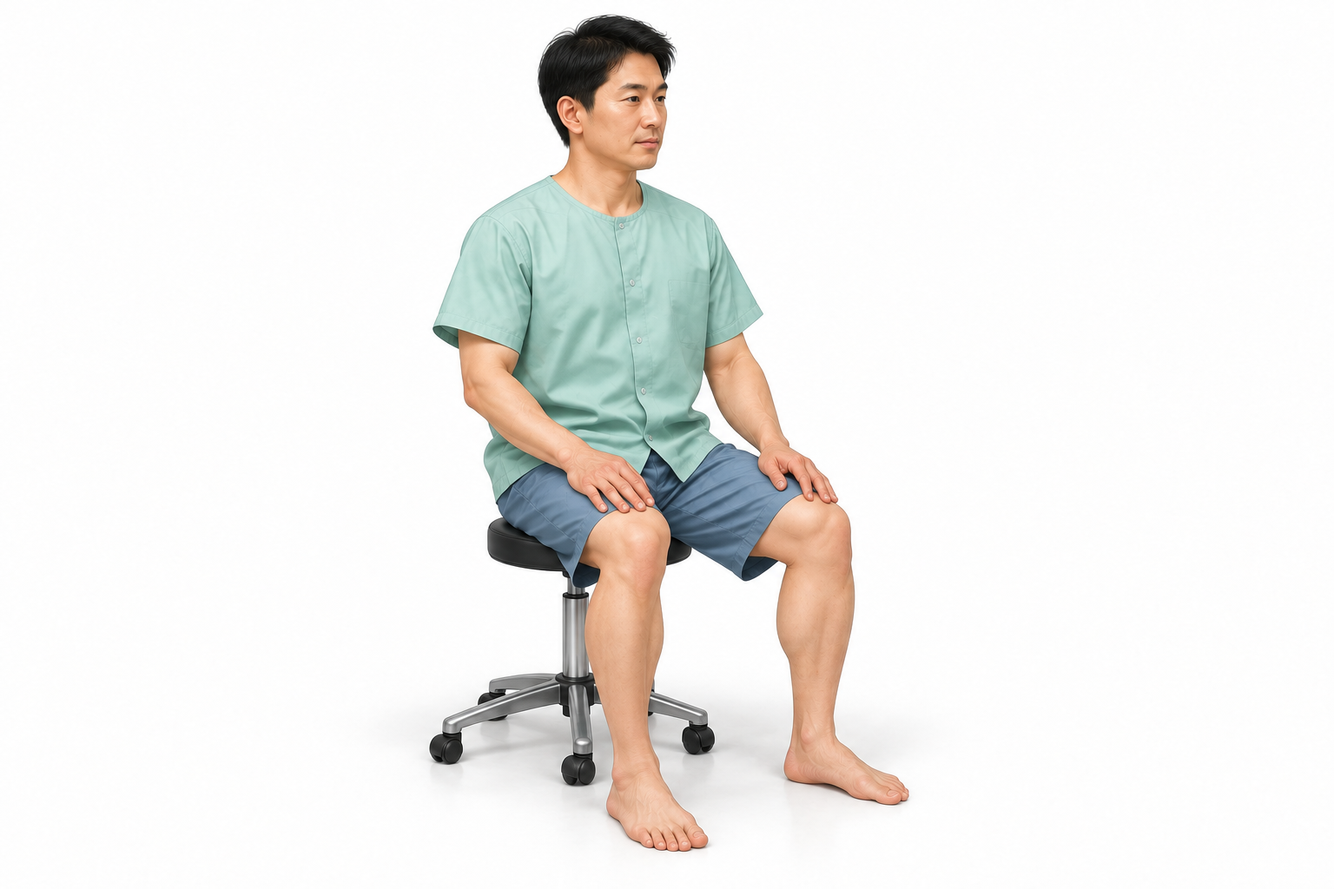
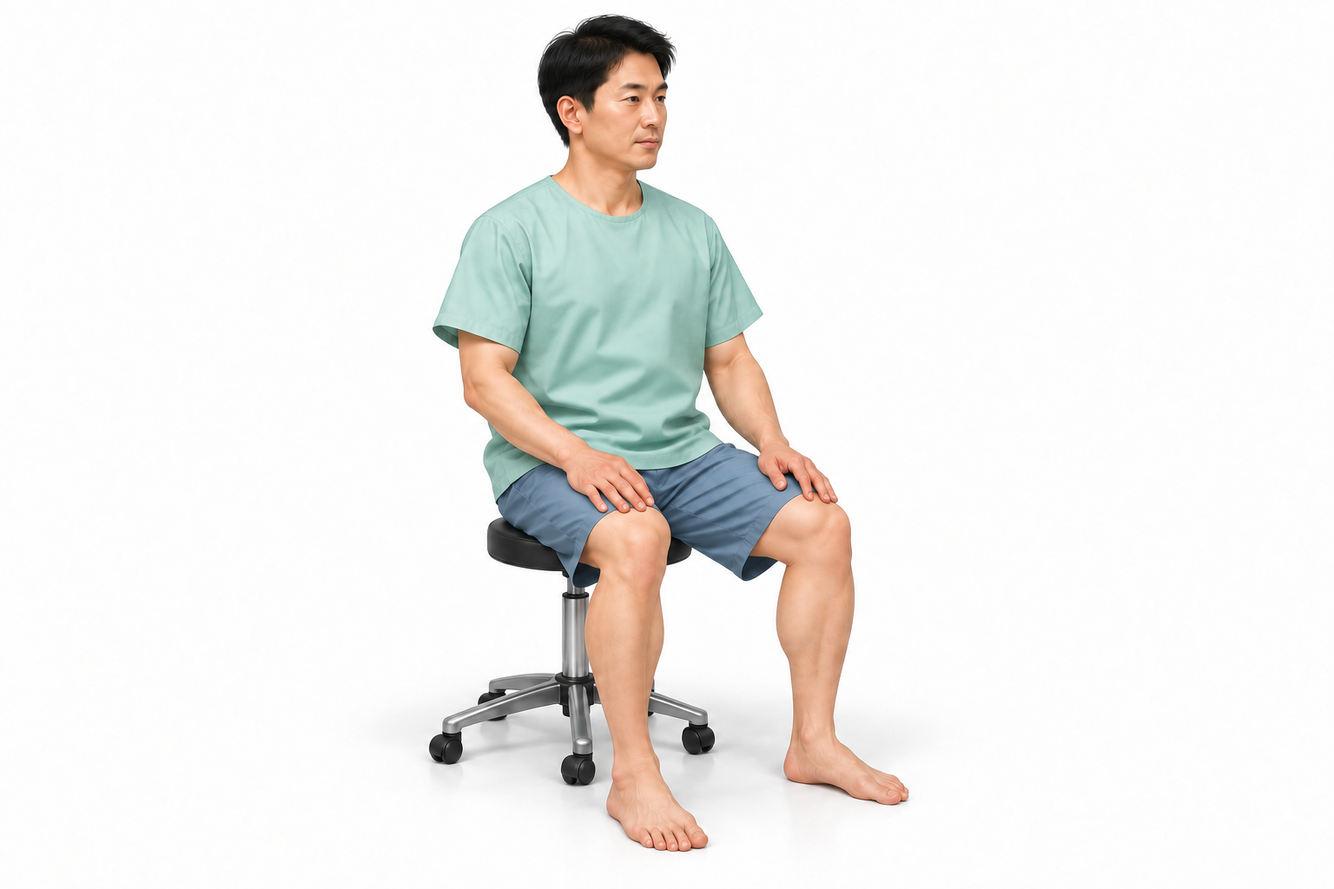
Refine cervical side posture and back-fastening patient clothing

Changed region(s): [[0.4375, 0.4062, 0.5312, 0.5625]]

diff --git a/patient-position.html b/patient-position.html
@@ -1,5 +1,5 @@
 <!doctype html>
-<html lang="ko"><head><meta charset="utf-8"><meta name="application-version" content="1.2.0"><meta name="description" content="병원별 환자 주사 포지션 안내 및 교육자료"><meta name="viewport" content="width=device-width,initial-scale=1"><title>환자 주사 포지션</title>
+<html lang="ko"><head><meta charset="utf-8"><meta name="application-version" content="1.3.0"><meta name="description" content="병원별 환자 주사 포지션 안내 및 교육자료"><meta name="viewport" content="width=device-width,initial-scale=1"><title>환자 주사 포지션</title>
 <style>
 :root{--ink:#233f42;--muted:#657b7c;--green:#147d72;--line:#dce6e3;--soft:#edf5f2}*{box-sizing:border-box}body{margin:0;background:#f5f7f5;color:var(--ink);font:14px/1.6 'Malgun Gothic',sans-serif}button,input,select,textarea{font:inherit}button{cursor:pointer;background:white;color:var(--ink);border:1px solid var(--line);border-radius:7px;padding:9px 13px}button:hover{border-color:var(--green);background:var(--soft)}button:focus-visible,input:focus-visible,textarea:focus-visible,select:focus-visible{outline:3px solid #54a99c;outline-offset:2px}header{height:78px;background:white;border-bottom:1px solid var(--line);display:flex;align-items:center;justify-content:space-between;padding:0 30px;gap:15px}.brand{display:flex;align-items:center;gap:12px}.mark{background:var(--green);color:white;font-size:26px;width:40px;height:40px;display:grid;place-items:center;border-radius:12px}header strong{font-size:18px}small,.muted{color:var(--muted)}header small{display:block;font-size:11px}.actions{display:flex;gap:8px}.primary{background:var(--green);color:white;border-color:var(--green)}.layout{display:grid;grid-template-columns:244px minmax(0,1fr);min-height:calc(100vh - 78px)}aside{padding:26px 20px;background:white;border-right:1px solid var(--line)}h1{font-size:28px;margin:3px 0 7px;letter-spacing:-1px}h2{font-size:16px;margin:0 0 15px}h3{font-size:14px;margin:0 0 12px}.eyebrow{font-size:11px;color:var(--green);font-weight:bold;letter-spacing:1.4px}#search{width:100%;margin:8px 0 17px}input,textarea,select{border:1px solid var(--line);border-radius:6px;padding:9px;background:white;color:var(--ink)}.region{display:flex;align-items:center;gap:9px;margin:4px 0;padding:0 8px;border-radius:7px}.region.active{background:var(--soft);color:var(--green)}.region input{accent-color:var(--green)}.region button{flex:1;text-align:left;border:0;background:none;padding:10px 0}.region small{font-size:10px}.side-note{border-top:1px solid var(--line);margin-top:22px;padding-top:18px;font-size:12px;color:var(--muted)}main{padding:29px 30px 20px;max-width:1500px;width:100%;margin:auto}.intro{display:flex;justify-content:space-between;align-items:center;gap:16px}.draft{font-size:12px;border:1px solid #d4dfda;padding:5px 10px;border-radius:5px;white-space:nowrap}.notice{font-size:12px;background:#fff9ea;border:1px solid #eee0b8;padding:11px 15px;border-radius:6px;margin:20px 0}.workspace{display:grid;grid-template-columns:minmax(0,1fr) 285px;gap:18px}.canvas-card,.detail{background:white;border:1px solid var(--line);border-radius:12px;overflow:hidden}.tabs{display:grid;grid-template-columns:repeat(4,1fr);padding:10px;gap:5px;border-bottom:1px solid var(--line)}.tab{border:0;padding:10px 4px;color:var(--muted);font-size:12px}.tab b{display:block;font-size:14px}.tab.active{background:var(--soft);color:var(--green)}.canvas-top{padding:20px 22px 0;display:flex;justify-content:space-between;align-items:center;gap:10px}.canvas-top strong{font-size:18px}.canvas-top small{display:block}.figure{position:relative;margin:8px 12px 0}svg{width:100%;display:block;touch-action:none}#anatomy{cursor:crosshair}.bodyline{stroke:#6c9994;stroke-width:3;stroke-linejoin:round;stroke-linecap:round;fill:#d9e9e3}.limb{fill:none;stroke:#d9e9e3;stroke-width:31;stroke-linecap:round;stroke-linejoin:round}.outline{fill:none;stroke:#6c9994;stroke-width:37;stroke-linecap:round;stroke-linejoin:round}.pin{cursor:pointer}.canvas-bottom{padding:15px 22px;border-top:1px solid var(--line);display:flex;justify-content:space-between;gap:12px;font-size:12px;color:var(--muted)}.legend{display:inline-block;width:9px;height:9px;background:#dd8152;border-radius:50%;margin-right:6px}.detail{padding:22px}.detail label{display:block;font-size:12px;margin:15px 0 6px}.detail input:not([type=checkbox]),.detail select,.detail textarea{width:100%}.detail textarea{resize:vertical;min-height:86px}.detail .check{display:flex;align-items:center;gap:7px;padding:10px;background:var(--soft);font-size:13px}.point-row{display:flex;align-items:center;gap:8px;padding:9px 0;border-bottom:1px solid var(--line)}.point-row button:first-child{flex:1;text-align:left;font-size:12px}.point-row.selected button:first-child{background:var(--soft);border-color:var(--green)}.point-row .delete{padding:6px 9px}.help{font-size:12px;color:var(--muted)}.summary{margin-top:20px;background:white;border:1px solid var(--line);border-radius:10px;padding:19px 22px}.summary-head{display:flex;justify-content:space-between}.chips{display:flex;gap:8px;flex-wrap:wrap}.chips button{font-size:12px}.footer{display:flex;justify-content:space-between;font-size:11px;color:var(--muted);margin-top:16px;gap:18px}details{font-size:12px;margin-top:12px}#status{color:var(--green)}.empty{padding:12px 0;font-size:12px;color:var(--muted)}@media(max-width:1100px){.workspace{grid-template-columns:1fr}.detail{display:grid;grid-template-columns:1fr 1fr;gap:0 20px}.detail h2,.detail .help,.detail #points{grid-column:1/-1}}@media(max-width:700px){header{height:auto;padding:16px;flex-wrap:wrap}.layout{grid-template-columns:1fr}aside{padding:15px;border-right:0}.region{display:inline-flex;width:46%}.side-note{display:none}main{padding:18px 12px}.intro{align-items:start}h1{font-size:23px}.detail{display:block}.tabs{gap:0}.tab b{font-size:12px}.canvas-top{padding:15px 12px 0}.canvas-bottom,.footer{flex-wrap:wrap}}@media print{header .actions,aside,.detail,.notice,.footer,details,#editToggle{display:none}.layout,.workspace{display:block}main{padding:0}.canvas-card,.summary{break-inside:avoid}body{background:white}.tabs{padding:0}.tab:not(.active){display:none}.tab.active{background:white}header{padding:0}.summary button{border:0}}
 
@@ -29,10 +29,10 @@
 <pattern id="grid" width="28" height="28" patternUnits="userSpaceOnUse"><circle cx="1" cy="1" r="1" fill="#dce7e2"/></pattern></defs><rect width="760" height="470" fill="white"/><g id="drawing"></g><g id="markers"></g></svg></div><div class="pose-note"><b>준비 자세</b><p id="poseDescription"></p><div id="poseSource"></div></div><div class="canvas-bottom"><span><i class="legend"></i>부위 표시 · 임상적 자입점 아님</span><span id="instruction">점을 선택하면 이름과 위치를 수정할 수 있습니다.</span></div></section>
 <section class="detail"><h2>이 세부 자세의 설정</h2><p id="legacyWarning" class="notice" hidden>이전 표시 좌표는 백업으로 보관했습니다. 새 도식에서 위치를 다시 지정하세요.</p><div><label for="side">환자 기준 좌우</label><select id="side"><option>미지정</option><option>좌측</option><option>우측</option><option>양측</option><option>중앙</option></select></div><div><label class="check"><input id="used" type="checkbox">우리 병원 시행 포지션</label><p class="help">선택한 부위 × 세부 자세마다 별도로 저장됩니다.</p></div><div><label for="target">타겟 / 시술명</label><input id="target" placeholder="의료진이 명칭을 입력하세요"></div><div><label for="memo">자세 및 준비 메모</label><textarea id="memo" placeholder="팔·다리 위치, 베개·쿠션, 준비사항 등"></textarea></div><h3 style="margin-top:20px">그림 위 표시</h3><div id="points"></div><div><label for="pointName">선택한 표시 이름</label><input id="pointName" placeholder="표시를 먼저 선택하세요" disabled></div><p class="help">점은 드래그 또는 선택 후 방향키로 이동할 수 있습니다. 그림의 인물 좌우와 실제 환자 좌우는 별도로 확인하세요. 추가 모드에서는 그림을 클릭하세요. 모든 변경은 자동 저장됩니다.</p></section></div>
 <section class="summary"><div class="summary-head"><h2>선택한 부위 모아보기</h2><small id="count"></small></div><div class="chips" id="summary"></div></section>
-<details><summary>초안 범위와 참고 자료</summary><p>부위당 6~7개의 준비 자세를 선택할 수 있습니다. Supine(바로 눕기), Prone(엎드리기), Side-lying(옆으로 눕기), Sitting(앉기) 필터와 부위별 세부 자세를 제공합니다. 기본 24장과 환부 노출 수정본 12장의 반실사 일러스트를 부위와 자세에 맞춰 연결했습니다. 동일한 자세는 여러 부위에서 공유하며, 이는 가능한 시술 자세를 의학적으로 추천하는 목록이 아닙니다. PDF에서 확인한 어깨 SA/IA, 늑골, 팔꿈치, 무릎, 종아리·아킬레스건, 손가락·손바닥, 발목의 8가지 준비 자세는 시행 상태로 초기 설정했습니다. 그 외 부위는 확장용이며 시행 미확인입니다. 옆으로 눕기 그림은 위쪽 몸통 면을 보여주는 개념도이며 환자 좌우는 별도로 지정합니다. 출처: 20260914_정왕365정형외과_환자자세Position.pdf, 1~2쪽. PDF의 공통 준비 메모: 편안히 누운 기본 자세, 환부 아래 포 깔기, 시술자 및 초음파 쪽으로 환부 정렬. 실제 적용은 부위별 메모 및 의료진 판단으로 확정합니다.</p><p>일반 자세 참고: <a href="https://www.msdmanuals.com/professional/musculoskeletal-and-connective-tissue-disorders/how-to-do-arthrocentesis/how-to-do-shoulder-arthrocentesis" target="_blank" rel="noopener">MSD Manual · 어깨 관절천자 자세</a> · <a href="https://www.merckmanuals.com/professional/musculoskeletal-and-connective-tissue-disorders/how-to-do-arthrocentesis/how-to-do-knee-arthrocentesis" target="_blank" rel="noopener">Merck Manual · 무릎 관절천자 자세</a>. 참고 자료는 병원 프로토콜이나 아래 표시 좌표의 근거가 아닙니다.</p></details>
-<div class="footer"><span>v1.2.0 · 2026.09.29 · 반실사 자세 안내 · 설정은 이 브라우저에 저장</span><span id="status" role="status">준비됨</span><span class="copyright">© 2020 JINSUL. All rights reserved.</span></div></main></div>
+<details><summary>초안 범위와 참고 자료</summary><p>부위당 6~7개의 준비 자세를 선택할 수 있습니다. Supine(바로 눕기), Prone(엎드리기), Side-lying(옆으로 눕기), Sitting(앉기) 필터와 부위별 세부 자세를 제공합니다. 환자복의 등 쪽 단추와 환부 노출을 반영한 반실사 그림을 부위와 자세에 맞춰 연결했습니다. 목의 옆으로 눕기는 아랫팔을 배 앞쪽에 두는 병원 요청 자세로 별도 구성했습니다. 동일한 자세는 여러 부위에서 공유하며, 이는 가능한 시술 자세를 의학적으로 추천하는 목록이 아닙니다. PDF에서 확인한 어깨 SA/IA, 늑골, 팔꿈치, 무릎, 종아리·아킬레스건, 손가락·손바닥, 발목의 8가지 준비 자세는 시행 상태로 초기 설정했습니다. 그 외 부위는 확장용이며 시행 미확인입니다. 옆으로 눕기 그림은 위쪽 몸통 면을 보여주는 개념도이며 환자 좌우는 별도로 지정합니다. 출처: 20260914_정왕365정형외과_환자자세Position.pdf, 1~2쪽. PDF의 공통 준비 메모: 편안히 누운 기본 자세, 환부 아래 포 깔기, 시술자 및 초음파 쪽으로 환부 정렬. 실제 적용은 부위별 메모 및 의료진 판단으로 확정합니다.</p><p>일반 자세 참고: <a href="https://www.msdmanuals.com/professional/musculoskeletal-and-connective-tissue-disorders/how-to-do-arthrocentesis/how-to-do-shoulder-arthrocentesis" target="_blank" rel="noopener">MSD Manual · 어깨 관절천자 자세</a> · <a href="https://www.merckmanuals.com/professional/musculoskeletal-and-connective-tissue-disorders/how-to-do-arthrocentesis/how-to-do-knee-arthrocentesis" target="_blank" rel="noopener">Merck Manual · 무릎 관절천자 자세</a>. 참고 자료는 병원 프로토콜이나 아래 표시 좌표의 근거가 아닙니다.</p></details>
+<div class="footer"><span>v1.3.0 · 2026.09.29 · 반실사 자세 안내 · 설정은 이 브라우저에 저장</span><span id="status" role="status">준비됨</span><span class="copyright">© 2020 JINSUL. All rights reserved.</span></div></main></div>
 <section id="education" class="education" hidden><div class="edu-toolbar"><button id="backBtn">← 포지션 편집</button><h1>교육자료 구성</h1><button class="primary" id="printEducation">인쇄 / PDF 저장</button></div><div class="edu-options"><label>페이지당 자세 <select id="pageSize"><option value="6">6개 · 원본 PDF 구성</option><option value="4">4개 · 큰 그림</option><option value="1">1개 · 상세 안내</option></select></label><label><input type="checkbox" id="printMarkers"> 부위 표시 포함</label><button id="resetEducation">원본 PDF 8개 자세</button><button id="addUsed">체크한 부위의 시행 자세 추가</button><label for="prep">공통 준비 안내</label><textarea id="prep" maxlength="500"></textarea><span class="help">아래 순서로 출력됩니다. 인쇄 창에서 PDF로 저장할 수 있습니다. 표시점은 실제 자입점을 뜻하지 않습니다.</span></div><div id="eduList" class="edu-list"></div><div id="printPages"></div></section><script>
-const APP_VERSION="1.2.0";
+const APP_VERSION="1.3.0";
 
 
 const regions=['목 / 경추','어깨 · SA','팔꿈치','손가락 / 손바닥','등 / 흉추','허리 / 요추','골반 / 천장관절','고관절 / 둔부','무릎','발목','늑골 / 갈비뼈','종아리 / 아킬레스건','어깨 · IA'];
@@ -59,6 +59,9 @@ const additions={
 12:[v('ia-cross','sitting','IA · 반대편 어깨 잡기','주사할 쪽 팔로 반대편 어깨를 잡습니다. 팔을 가로지르는 쪽 어깨의 상의를 자연스럽게 내려 준비합니다.','cross','pdf',{target:'IA · 관절강내',page:1}),v('ia-lap','sitting','팔 내리기 · 손 무릎 위','어깨 관절천자 참고 자료의 앉은 준비 자세입니다. PDF의 IA 자세와는 별도입니다.','lap','reference',{ref:'shoulder'}),v('ia-arm','supine','팔 벌림 · 전완 받침','팔을 몸통에서 벌려 지지하는 편집용 도식입니다.','armOut')]
 };
 for(let r=0;r<regions.length;r++)catalog[r]=[...additions[r],...base.map(x=>({...x}))];
+const neckSide=catalog[0].find(v=>v.id==='side');
+Object.assign(neckSide,{name:'옆으로 눕기 · 아랫팔 배 앞쪽',source:'request',detail:'등이 보이게 옆으로 눕고 아랫팔은 배 앞쪽에 편하게 둡니다. 윗손은 엉덩이 쪽에 둡니다. C7과 상완골두의 겹침은 실제 영상에서 확인합니다.'});
+function sourceBadge(v){return v.source==='pdf'?'병원 PDF':v.source==='request'?'병원 요청 자세':v.source==='reference'?'문헌 참고 · 미확인':'추가 검토용'}
 const sources={shoulder:['MSD Manual · 어깨 관절천자 자세','https://www.msdmanuals.com/professional/musculoskeletal-and-connective-tissue-disorders/how-to-do-arthrocentesis/how-to-do-shoulder-arthrocentesis'],elbow:['StatPearls · 팔꿈치 관절천자 자세','https://www.ncbi.nlm.nih.gov/books/NBK537287/'],hip:['MSD Manual · 대전자 점액낭 주사 자세','https://www.msdmanuals.com/de/profi/erkrankungen-des-rheumatischen-formenkreises-und-des-bewegungsapparats/schleimbeutelaspiration-und-injektion/trochanter-bursa-injektion'],knee:['Merck Manual · 무릎 관절천자 자세','https://www.merckmanuals.com/professional/musculoskeletal-and-connective-tissue-disorders/how-to-do-arthrocentesis/how-to-do-knee-arthrocentesis']};
 const storageKey='jw365-position-studio-v4';
 let state={version:3,artRevision:'semirealistic-v1',region:1,variant:'sa-behind',filter:'all',checked:[1,12,10,2,8,11,3,9],configs:{},last:{}},selected=0,adding=false,zoomed=false,showLabels=true,migrationNotice='';
@@ -69,7 +72,7 @@ function valid(s){return s?.version===3&&Number.isInteger(s.region)&&!!catalog[s
 function migrate(old){if(!old||!Number.isInteger(old.region)||!catalog[old.region]||!Array.isArray(old.checked)||!old.checked.every(r=>Number.isInteger(r)&&!!catalog[r])||!old.configs||!Object.entries(old.configs).every(([k,c])=>/^(\d+):(supine|prone|side|sitting)$/.test(k)&&!!catalog[k.split(':')[0]]&&configValid(c)))throw Error('Invalid legacy settings');const next={version:3,region:old.region,variant:'',filter:'all',checked:old.checked,configs:{},last:{},legacyBackup:old};for(const[k,c]of Object.entries(old.configs)){const[r,p]=k.split(':');const choice=catalog[r].find(v=>v.source==='pdf'&&v.pose===p)||catalog[r].find(v=>v.id===p);next.configs[r+':'+choice.id]={...c,points:[],legacyPoints:c.points,needsReview:true}}next.variant=(catalog[old.region].find(v=>v.source==='pdf'&&v.pose===old.pose)||catalog[old.region].find(v=>v.id===old.pose)||catalog[old.region][0]).id;return next}
 try{const saved=JSON.parse(localStorage.getItem(storageKey));if(valid(saved))state=upgradeArt(saved);else{const old3=JSON.parse(localStorage.getItem('jw365-position-studio-v3'));if(valid(old3)){state=upgradeArt(old3);migrationNotice='기존 시술명·메모·시행 설정을 가져왔습니다. 반실사 그림의 구도가 달라 이전 표시 좌표는 백업으로 보관했습니다. 새 그림에서 위치를 다시 지정하세요.'}else{const old2=JSON.parse(localStorage.getItem('jw365-position-draft-v2'));if(old2){state=upgradeArt(migrate(old2));migrationNotice='이전 설정을 가져왔습니다. 기존 좌표는 백업으로 보관했으며 새 그림에서 위치를 다시 지정해야 합니다.'}}}}catch(e){}
 function save(){try{localStorage.setItem(storageKey,JSON.stringify(state));$('status').textContent='이 브라우저에 자동 저장됨'}catch(e){$('status').textContent='브라우저 저장 불가 · 설정 내보내기로 백업하세요.'}}
-function cfg(){const key=cfgKey();if(!Object.hasOwn(state.configs,key)){const v=current(),g=geometry(v);state.configs[key]={used:v.source==='pdf',side:'미지정',target:v.target||'',memo:v.detail,points:[{x:g.target[0],y:g.target[1],name:regions[state.region]+' · 부위 예시'}]}}return state.configs[key]}
+function cfg(){const key=cfgKey();if(!Object.hasOwn(state.configs,key)){const v=current(),g=geometry(v);state.configs[key]={used:v.source==='pdf',side:'미지정',target:v.target||'',memo:v.detail,neckSideArtRevision:state.region===0&&v.id==='side'?1:undefined,points:[{x:g.target[0],y:g.target[1],name:regions[state.region]+' · 부위 예시'}]}}return state.configs[key]}
 // Reviewed generated assets; coordinates below identify broad surface regions, never needle entry sites.
 const artBase={
  supine:[[.218,.326],[.24,.405],[.32,.49],[.475,.543],[.32,.37],[.415,.402],[.50,.423],[.565,.46],[.654,.49],[.873,.55],[.335,.419],[.765,.514],[.24,.405]],
@@ -101,26 +104,36 @@ const artOverrides={
 };
 function assetId(v){const shape={lap:'neutral',kneeSeat:'neutral',straight:'neutral',ankleSide:'neutral'}[v.shape]||v.shape;return v.pose+'-'+shape}
 function displayAssetId(v,r=state.region){
+ if(r===0&&v.id==='side')return 'neck-side-frontArm';
  const id=assetId(v);
  if([1,12].includes(r))return 'exposed-'+id;
  if(r===10&&id==='side-ribUp')return 'exposed-torso-'+id;
  if([4,5,6].includes(r)&&['prone-neutral','prone-bellyPad','prone-pelvisPad','sitting-lean'].includes(id))return 'exposed-torso-'+id;
  return id;
 }
+function refreshNeckSideConfig(){
+ const c=state.configs['0:side'];if(!c||c.neckSideArtRevision===1)return;
+ const oldDefault=c.points.length===1&&c.points[0].name===regions[0]+' · 부위 예시'&&Math.abs(c.points[0].x-189.65)<.1&&Math.abs(c.points[0].y-177.19)<.1;
+ if(oldDefault){c.points[0].x=27.5+.182*705;c.points[0].y=.342*470;}
+ else if(c.points.length){c.neckSidePreviousPoints=c.points.map(p=>({...p}));c.points=[];c.needsReview=true;}
+ if(c.memo==='위쪽 면을 보여주는 측면 자세입니다. 환자 좌우를 별도로 지정하세요.')c.memo=neckSide.detail;
+ c.neckSideArtRevision=1;
+}
 function refreshExposureDefaults(){
+ refreshNeckSideConfig();
  const c=state.configs['12:ia-cross'];
  if(!c)return;
  for(const p of c.points)if(p.name===regions[12]+' · 부위 예시'&&Math.abs(p.x-302.45)<.1&&Math.abs(p.y-128.31)<.1){p.x=27.5+.538*705;p.y=.251*470;}
 }
-function geometry(v){const id=assetId(v),p=artOverrides[id]?.[state.region]||artBase[v.pose][state.region];return{target:[27.5+p[0]*705,p[1]*470]}}
+function geometry(v){if(state.region===0&&v.id==='side')return{target:[27.5+.182*705,.342*470]};const id=assetId(v),p=artOverrides[id]?.[state.region]||artBase[v.pose][state.region];return{target:[27.5+p[0]*705,p[1]*470]}}
 function illustration(v,mini=false){const id=displayAssetId(v),g=geometry(v);let result=`<image class="generated-pose" href="position-assets/${id}.png?v=${APP_VERSION}" x="27.5" y="0" width="705" height="470" preserveAspectRatio="xMidYMid meet"><title>${esc(regions[state.region]+' · '+v.name+' 반실사 준비 자세')}</title></image>`;if(!mini&&showLabels)result+=`<ellipse cx="${g.target[0]}" cy="${g.target[1]}" rx="26" ry="21" fill="#efb483" fill-opacity=".12" stroke="#c47a4d" stroke-width="1.3" stroke-dasharray="4 4"/><rect x="24" y="15" width="255" height="30" rx="6" fill="white" fill-opacity=".94"/><text x="36" y="35" font-size="12" fill="#856547">${esc(regions[state.region])} · 표면 부위 예시</text>`;return result}
 function upgradeArt(s){if(s.artRevision==='semirealistic-v1')return s;for(const c of Object.values(s.configs)){c.previousArtPoints=c.points;c.points=[];c.needsReview=true}return{...s,artRevision:'semirealistic-v1'}}
 
 function countUsed(r){return catalog[r].filter(v=>Object.hasOwn(state.configs,cfgKey(r,v.id))?state.configs[cfgKey(r,v.id)].used:v.source==='pdf').length}
 function renderNav(){const q=$('search').value.trim();$('regions').innerHTML=regions.map((r,i)=>r.includes(q)?`<div class="region ${i===state.region?'active':''}"><input type="checkbox" aria-label="${r} 모아보기" data-check="${i}" ${state.checked.includes(i)?'checked':''}><button data-region="${i}" aria-current="${i===state.region}">${r}<small>${catalog[i].length}가지</small></button></div>`:'').join('')||'<p class="empty">검색 결과가 없습니다.</p>';$('summary').innerHTML=state.checked.map(i=>`<button data-region="${i}">${esc(regions[i])} <span class="muted">· 시행 ${countUsed(i)}개</span></button>`).join('')||'<p class="empty">왼쪽에서 부위를 체크해 주세요.</p>';$('count').textContent=state.checked.length+'개 부위'}
-function renderGallery(){const list=catalog[state.region].filter(v=>state.filter==='all'||v.pose===state.filter);$('tabs').innerHTML=poses.map(p=>`<button class="tab ${state.filter===p[0]?'active':''}" data-filter="${p[0]}" aria-pressed="${state.filter===p[0]}"><b>${p[1]}</b>${p[2]} <span class="tabCount">${catalog[state.region].filter(v=>p[0]==='all'||v.pose===p[0]).length}</span></button>`).join('');$('variants').innerHTML=list.map(v=>`<button class="variant ${v.id===state.variant?'active':''}" data-variant="${v.id}" aria-pressed="${v.id===state.variant}"><svg viewBox="0 0 760 470" aria-hidden="true">${illustration(v,true)}</svg><span class="variant-name">${esc(v.name)}</span><span class="source ${v.source}">${v.source==='pdf'?'병원 PDF':v.source==='reference'?'문헌 참고 · 미확인':'추가 검토용'}</span></button>`).join('');$('variantCount').textContent=list.length+'개 자세'}
+function renderGallery(){const list=catalog[state.region].filter(v=>state.filter==='all'||v.pose===state.filter);$('tabs').innerHTML=poses.map(p=>`<button class="tab ${state.filter===p[0]?'active':''}" data-filter="${p[0]}" aria-pressed="${state.filter===p[0]}"><b>${p[1]}</b>${p[2]} <span class="tabCount">${catalog[state.region].filter(v=>p[0]==='all'||v.pose===p[0]).length}</span></button>`).join('');$('variants').innerHTML=list.map(v=>`<button class="variant ${v.id===state.variant?'active':''}" data-variant="${v.id}" aria-pressed="${v.id===state.variant}"><svg viewBox="0 0 760 470" aria-hidden="true">${illustration(v,true)}</svg><span class="variant-name">${esc(v.name)}</span><span class="source ${v.source}">${sourceBadge(v)}</span></button>`).join('');$('variantCount').textContent=list.length+'개 자세'}
 function renderPoints(){const c=cfg();$('markers').innerHTML=c.points.map((p,i)=>`<g class="pin" data-point="${i}" tabindex="0" role="button" aria-label="${esc(p.name)}; 방향키로 이동"><circle cx="${p.x}" cy="${p.y}" r="22" fill="#dd8152" opacity=".14"/><circle cx="${p.x}" cy="${p.y}" r="12" fill="${i===selected?'#b65022':'#db8558'}" stroke="white" stroke-width="3"/><text x="${p.x}" y="${p.y+4}" text-anchor="middle" fill="white" font-size="11" pointer-events="none">${i+1}</text></g>`).join('');$('points').innerHTML=c.points.map((p,i)=>`<div class="point-row ${i===selected?'selected':''}"><button data-select="${i}">${i+1}. ${esc(p.name)}</button><button class="delete" data-delete="${i}" aria-label="${esc(p.name)} 삭제">×</button></div>`).join('')||'<div class="empty">표시가 없습니다. 위치 추가를 눌러주세요.</div>';$('pointName').disabled=!c.points[selected];$('pointName').value=c.points[selected]?.name||'';$('legacyWarning').hidden=!c.needsReview}
-function sourceText(v){if(v.source==='pdf')return `병원 제공 PDF ${v.page}쪽에 수록된 자세입니다.`;if(v.source==='reference'){const s=sources[v.ref];return `자세 참고: <a href="${s[1]}" target="_blank" rel="noopener">${s[0]}</a>. 병원 시행 여부와 시술별 적용은 별도 확인이 필요합니다.`}return '추가 검토용 준비 도식입니다. 이 부위의 실제 시술에 적합한 자세라는 의미는 아니며, 의료진이 타겟에 맞게 선택합니다.'}
+function sourceText(v){if(v.source==='request')return '병원 요청을 반영한 준비 자세입니다. 아랫팔은 배 앞쪽에 있어 이 후면 그림에서는 몸통에 가려집니다. 촬영 시 어깨와 C7의 겹침 여부는 실제 영상으로 확인합니다.';if(v.source==='pdf')return `병원 제공 PDF ${v.page}쪽에 수록된 자세입니다.`;if(v.source==='reference'){const s=sources[v.ref];return `자세 참고: <a href="${s[1]}" target="_blank" rel="noopener">${s[0]}</a>. 병원 시행 여부와 시술별 적용은 별도 확인이 필요합니다.`}return '추가 검토용 준비 도식입니다. 이 부위의 실제 시술에 적합한 자세라는 의미는 아니며, 의료진이 타겟에 맞게 선택합니다.'}
 function subtitle(){const c=cfg();$('figureSub').textContent=(c.used?'병원 시행으로 설정됨':'병원 시행 미확인')+' · 환자 기준 '+c.side}
 function render(){refreshExposureDefaults();const v=current(),c=cfg();renderNav();renderGallery();$('figureTitle').textContent=v.name;$('figureRegion').textContent=regions[state.region];subtitle();$('svgTitle').textContent=regions[state.region]+' '+v.name+' 반실사 준비 자세';$('drawing').innerHTML=illustration(v);$('poseDescription').textContent=v.detail;$('poseSource').innerHTML=sourceText(v);['side','target','memo'].forEach(id=>$(id).value=c[id]);$('used').checked=c.used;renderPoints();setAdding(false);setZoom(false);if(migrationNotice){$('migration').hidden=false;$('migration').textContent=migrationNotice}}
 function selectVariant(id){state.variant=id;state.last[state.region]=id;selected=0;render();save()}
@@ -166,7 +179,7 @@ function renderEducation(){
   const chunks=[];const limit=e.size===1?550:e.size===4?155:95;
   while(note.length){let end=Math.min(limit,note.length),lines=0;for(let n=0;n<end;n++){if(note[n]==='\n'&&++lines>=(e.size===1?16:4)){end=n+1;break}}chunks.push(note.slice(0,end));note=note.slice(end)}if(!chunks.length)chunks.push('');
   const markers=e.markers?c.points.map((p,i)=>`<circle cx="${p.x}" cy="${p.y}" r="12" fill="#bd683c"/><text x="${p.x}" y="${p.y+4}" font-size="11" fill="white" text-anchor="middle">${i+1}</text>`).join(''):'';
-  chunks.forEach((chunk,k)=>cards.push(`<article class="edu-card"><h3>${index+1}. ${esc(regions[x.r])}${k?' · 계속':''}</h3><div class="pose">${esc(v.name)}</div><svg viewBox="0 0 760 470" role="img" aria-label="${esc(v.name)}"><image href="position-assets/${displayAssetId(v,x.r)}.png?v=${APP_VERSION}" x="27.5" width="705" height="470"/>${markers}</svg><div class="origin">${v.source==='pdf'?'병원 제공 PDF 수록 자세':v.source==='reference'?'문헌 참고 · 병원 적용 확인 필요':'추가 검토용 · 병원 적용 확인 필요'}</div><p>${esc(chunk)}</p></article>`));
+  chunks.forEach((chunk,k)=>cards.push(`<article class="edu-card"><h3>${index+1}. ${esc(regions[x.r])}${k?' · 계속':''}</h3><div class="pose">${esc(v.name)}</div><svg viewBox="0 0 760 470" role="img" aria-label="${esc(v.name)}"><image href="position-assets/${displayAssetId(v,x.r)}.png?v=${APP_VERSION}" x="27.5" width="705" height="470"/>${markers}</svg><div class="origin">${v.source==='pdf'?'병원 제공 PDF 수록 자세':v.source==='request'?'병원 요청을 반영한 준비 자세':v.source==='reference'?'문헌 참고 · 병원 적용 확인 필요':'추가 검토용 · 병원 적용 확인 필요'}</div><p>${esc(chunk)}</p></article>`));
  }
  const pages=[];for(let i=0;i<cards.length;i+=e.size)pages.push(cards.slice(i,i+e.size));
  $('printPages').innerHTML=pages.map((page,i)=>`<section class="edu-page" data-size="${e.size}"><div class="edu-head"><div class="collaboration">${esc(state.hospitalName||'병원명 미입력')} × JINSUL</div><div class="tagline">JINSUL | 경험과 가치를 현실화하는 컨설팅</div><h2>환자 주사 포지션</h2><p>${esc(e.prep.replace(/\s+/g,' '))}</p></div><div class="edu-grid">${page.join('')}</div><div class="edu-foot"><span>자세 안내용 · 실제 자입점 안내 아님 · ${i+1} / ${pages.length}</span><span>© 2020 JINSUL. All rights reserved.</span></div></section>`).join('');

diff --git a/patient-position-deployment.md b/patient-position-deployment.md
@@ -5,7 +5,7 @@
 - Entry point: `patient-position.html` on `main`.
 - Hosting: existing GitHub Pages, publish from `main` at repository root.
 - Assets: `position-assets/` (24 generated illustrations; reused across 88 regional variants).
-- Current release: `1.2.0` (2026-09-29).
+- Current release: `1.3.0` (2026-09-29).
 
 ## Future updates
 
@@ -22,3 +22,5 @@ The illustrations are preparation aids and broad surface-region examples, not ve
 Release 1.1.0: Patient injection positioning title, editable hospital collaboration with JINSUL, self-hosted Paperlogy fonts with OFL license, configurable A4 education printing, fixed copyright year 2020.
 
 Release 1.2.0: 12 region-specific clothing edits expose shoulders, back, lumbar and rib areas with intact naturally folded clothing. Shoulder IA example is on the arm crossing the chest; only the unchanged old default marker moves, custom markers are preserved. Original 24 assets remain for other regions.
+
+Release 1.3.0: Back-buttoning patient shirts across active illustrations. A dedicated rear-view cervical side-lying image places the dependent arm in front of the abdomen (naturally occluded in rear view), upper hand at hip. Previous custom markers for this changed view are archived for review; all other region poses are preserved.
